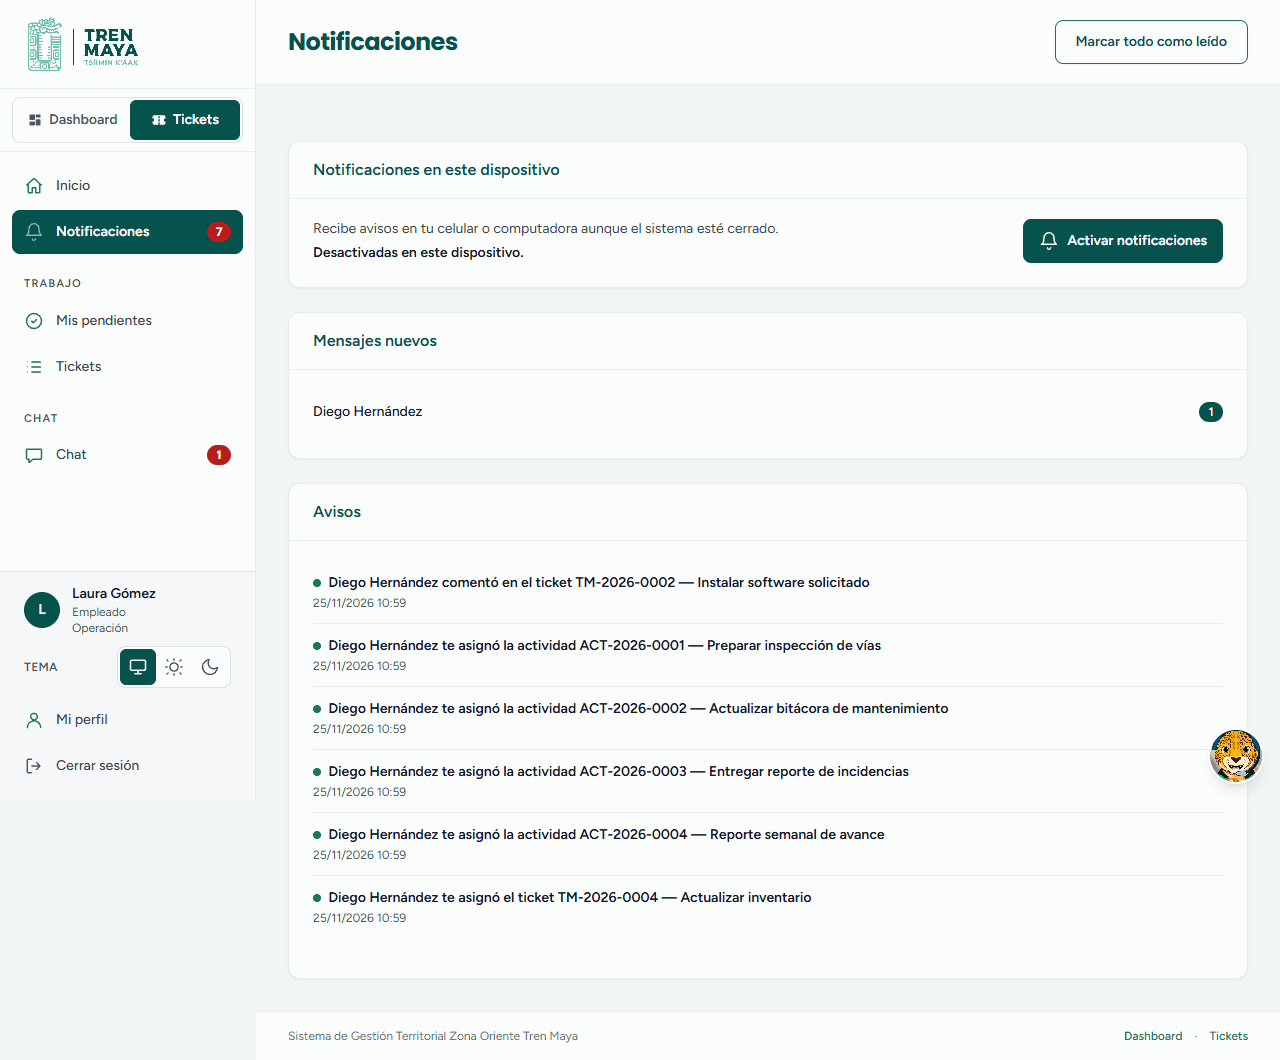
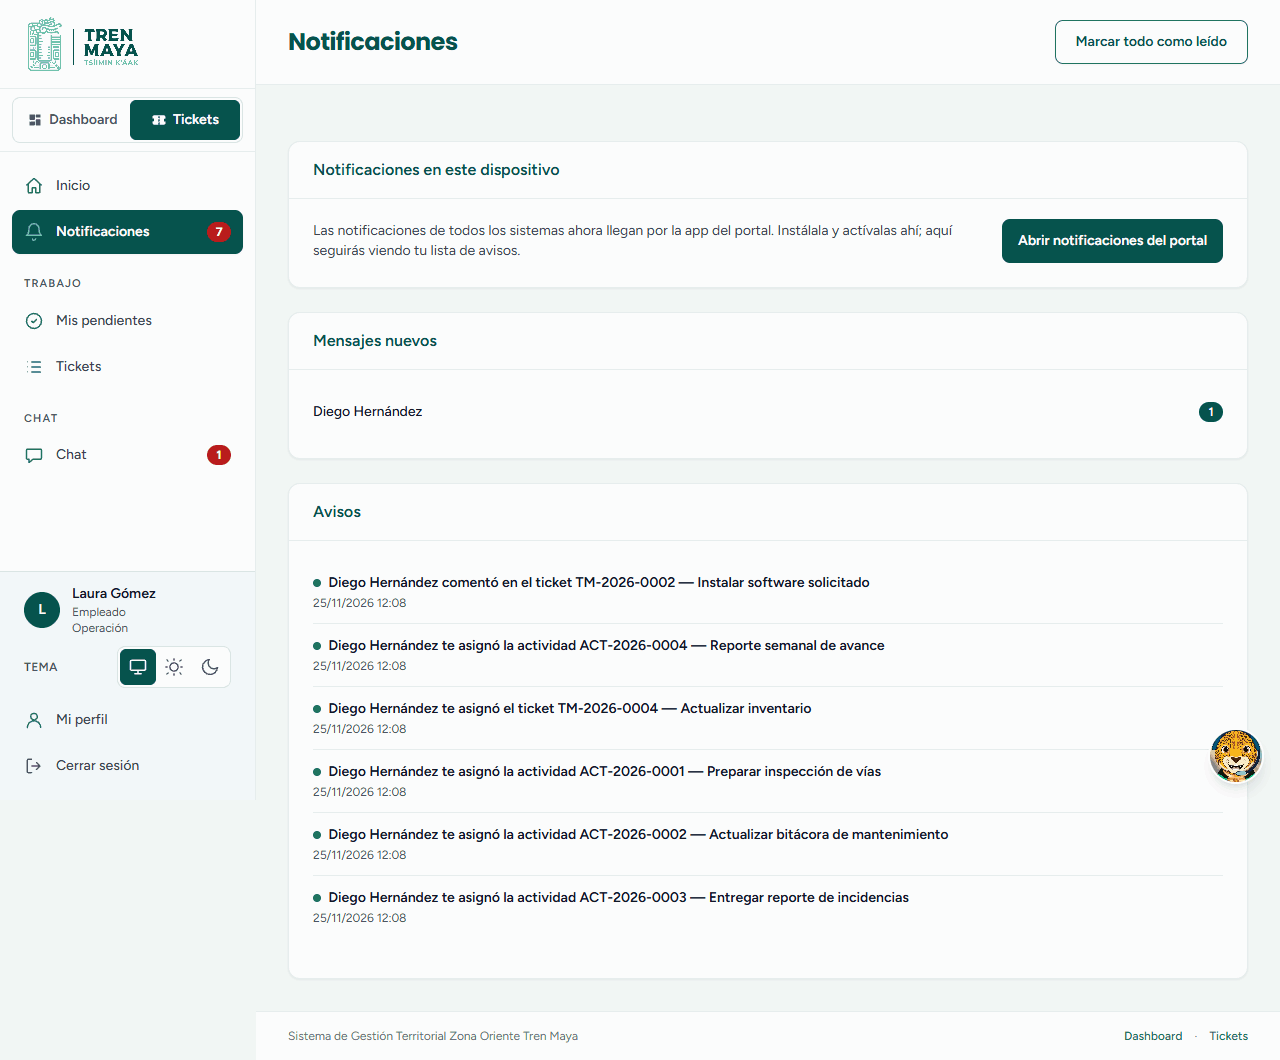
Tutoriales: las notificaciones de todos los sistemas llegan por el portal

diff --git a/config/guias.php b/config/guias.php
@@ -41,7 +41,7 @@ return [
         'app-y-notificaciones' => [
             'sistema' => 'portal', 'titulo' => 'La app y las notificaciones',
             'resumen' => 'Instala el portal en tu celular y recibe los avisos de tus sistemas.',
-            'publica' => true, 'publicada' => '2026-11-25',
+            'publica' => true, 'publicada' => '2026-11-25', 'actualizada' => '2026-11-25',
         ],
         'perfil' => [
             'sistema' => 'portal', 'titulo' => 'Tu perfil',
@@ -66,7 +66,7 @@ return [
         'tickets-primeros-pasos' => [
             'sistema' => 'tickets', 'titulo' => 'Tickets: primeros pasos',
             'resumen' => 'Qué es un ticket y una actividad, el menú, tus pendientes, avisos y perfil.',
-            'publicada' => '2026-11-25',
+            'publicada' => '2026-11-25', 'actualizada' => '2026-11-25',
         ],
         'tickets-solicitudes' => [
             'sistema' => 'tickets', 'titulo' => 'Crear y tomar tickets',

diff --git a/resources/guias/portal/app-y-notificaciones.md b/resources/guias/portal/app-y-notificaciones.md
@@ -1,5 +1,7 @@
 Puedes instalar el portal como una aplicación y recibir en tu celular los avisos de todos los sistemas.
 
+> Los avisos del **Dashboard** y de **Tickets** llegan aquí. Actívalos en el portal: Tickets ya no los manda por separado a tu celular.
+
 ## Instala la app en tu celular
 
 - **Android (Chrome):** abre el portal, toca el menú **⋮** y elige **Instalar aplicación** o **Agregar a la pantalla principal**.
@@ -32,4 +34,6 @@ En **Avisos al celular** apaga los sistemas que no quieras que suenen. Sus aviso
 
 ## Revisa y marca como leídos
 
-Toca un aviso para abrirlo en su sistema, o usa **Marcar todas como leídas**.
+Toca un aviso para abrirlo en su sistema, o usa **Marcar todas como leídas**. Cada aviso indica de qué sistema viene.
+
+Solo llegan al portal los avisos generados desde que tu cuenta está activa. Si no recibes alguno, revisa que tu cuenta del sistema use el **mismo correo** que la del portal.

diff --git a/resources/guias/tickets/tickets-primeros-pasos.md b/resources/guias/tickets/tickets-primeros-pasos.md
@@ -32,7 +32,9 @@ Reúne tus tickets y actividades abiertos, ordenados por fecha límite y priorid
 
 ## Notificaciones
 
-Aquí ves asignaciones, comentarios y mensajes. Toca un aviso para abrirlo. **Activar notificaciones** hace que lleguen a tu dispositivo.
+Aquí ves asignaciones, comentarios y mensajes. Toca un aviso para abrirlo.
+
+Las notificaciones al celular llegan por la **app del portal**: usa **Abrir notificaciones del portal** y actívalas allá. Consulta [La app y las notificaciones](/tutoriales/app-y-notificaciones).
 
 ![Pantalla de notificaciones](04-notificaciones.png)
 
